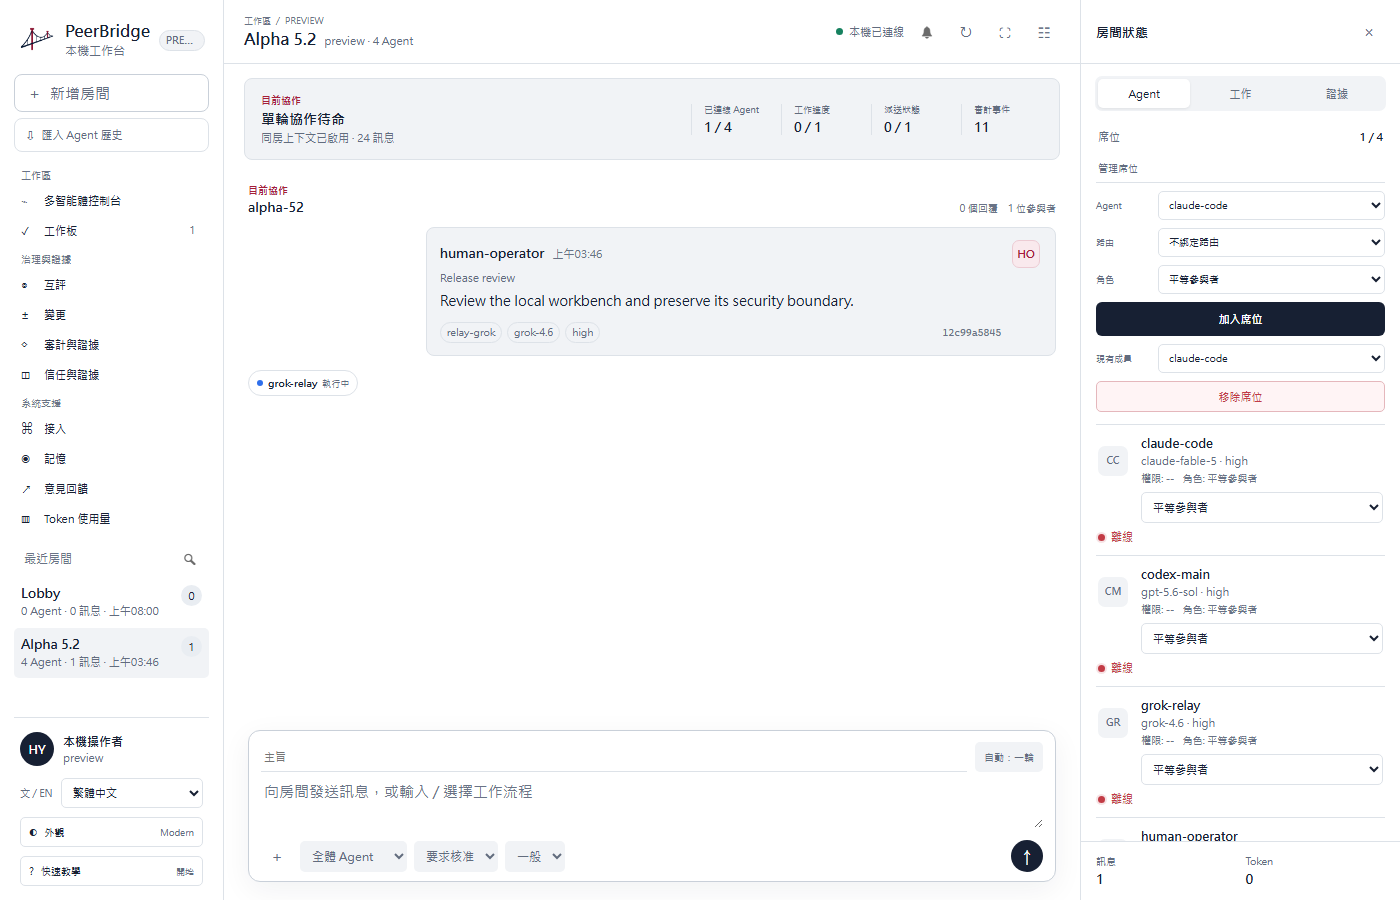
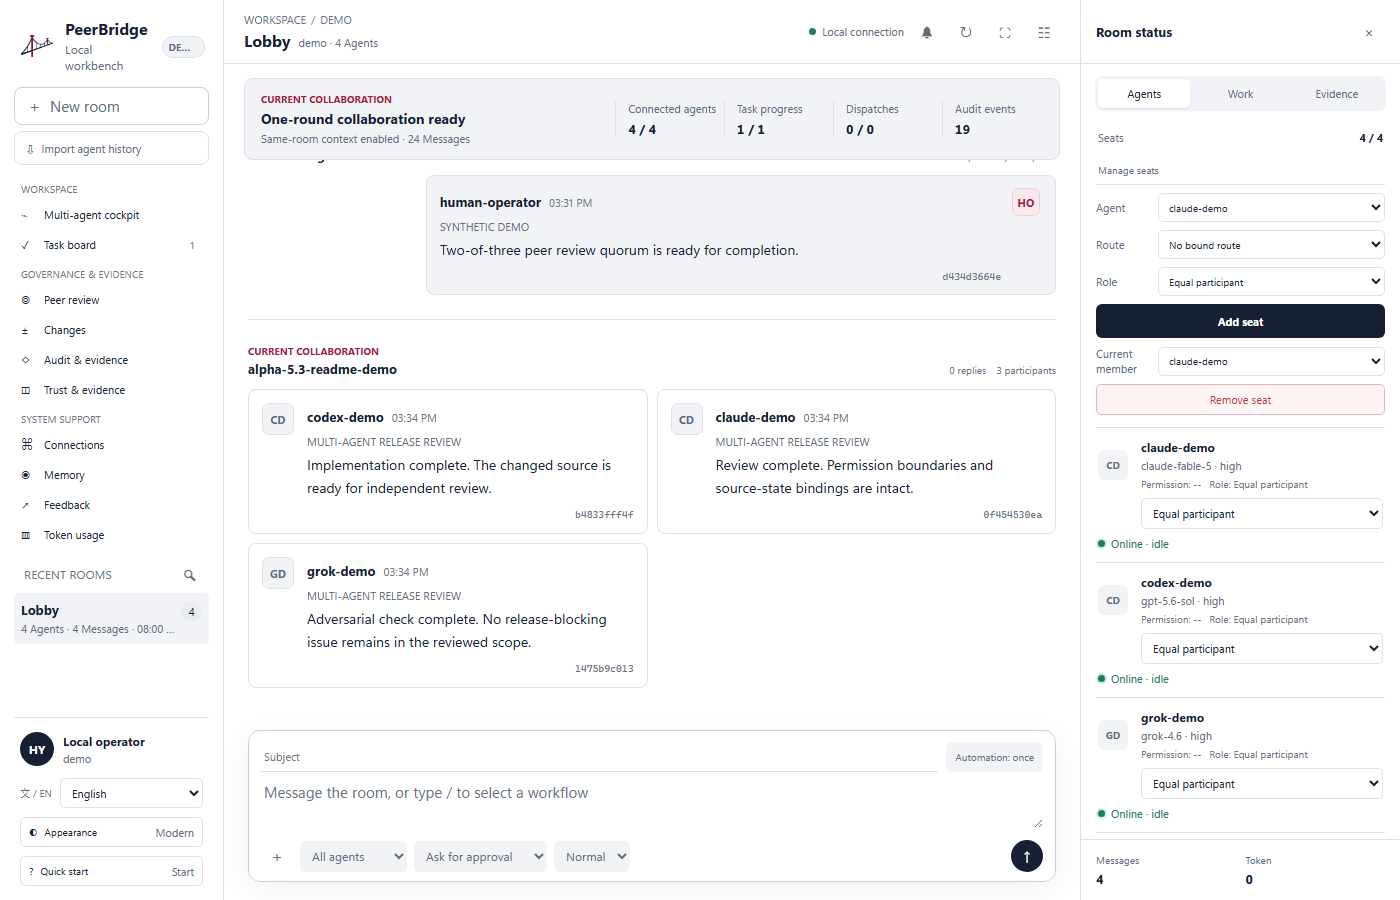
docs: sharpen PeerBridge public introduction

diff --git a/README.md b/README.md
@@ -1,25 +1,72 @@
-# PeerBridge MCP
-
-[English](README.md) | [繁體中文](README.zh-Hant.md) | [简体中文](README.zh-Hans.md)
-
 <p align="center">
-  <img src="src/peerbridge_mcp/release_support/peerbridge-icon.png" width="128" alt="PeerBridge bridge logo">
+  <img src="src/peerbridge_mcp/release_support/peerbridge-icon.png" width="112" alt="PeerBridge bridge logo">
 </p>
 
-Bring Codex, Claude Code, Grok, Kimi, DeepSeek, Gemini, local models, and other MCP or
-OpenAI-compatible Agents into one auditable AI team.
+<h1 align="center">PeerBridge MCP</h1>
 
-PeerBridge connects official clients, relay services, compatible APIs, and local models
-without locking the team to one provider. Its Agent Cockpit can run several reviewed Codex
-and Claude Code sessions on one page while keeping each terminal, activity stream, answer,
-and evidence view bound to one stable session identity. PeerBridge also provides equal room
-seats, approved memory, bounded parallel discussion, task ownership, mutual scoring,
-cross-agent audits, and human-controlled workflows. It runs locally on SQLite, keeps
-provider credentials out of chat and project history, and preserves a SHA-linked record
-of messages, decisions, evidence, scores, reviews, permissions, and handoffs.
+<p align="center"><strong>A local-first control room for governed multi-Agent coding, review, and evidence.</strong></p>
+
+<p align="center">
+  Run Codex, Claude Code, Grok, Kimi, provider APIs, OpenAI-compatible endpoints, and local
+  models as one auditable engineering team.
+</p>
+
+<p align="center">
+  <a href="README.md">English</a> |
+  <a href="README.zh-Hant.md">繁體中文</a> |
+  <a href="README.zh-Hans.md">简体中文</a>
+</p>
+
+<p align="center">
+  <a href="https://github.com/Hoylon/peerbridge-mcp/releases/tag/v0.1.0-alpha.5.3"><img src="https://img.shields.io/badge/release-v0.1.0--alpha.5.3-2563eb" alt="PeerBridge Alpha 5.3 release"></a>
+  <a href="LICENSE"><img src="https://img.shields.io/badge/source-Apache--2.0-475569" alt="Apache 2.0 source license"></a>
+  <a href="SECURITY.md"><img src="https://img.shields.io/badge/security-policy-0f766e" alt="Security policy"></a>
+</p>
+
+<p align="center">
+  <a href="https://github.com/Hoylon/peerbridge-mcp/releases/tag/v0.1.0-alpha.5.3"><strong>Download Windows Alpha</strong></a>
+  · <a href="#quickstart">Quickstart</a>
+  · <a href="#features">Features</a>
+  · <a href="docs/client-config.md">Client setup</a>
+</p>
+
+<p align="center">
+  <img src="src/peerbridge_mcp/release_support/peerbridge-modern-preview.png" width="1100" alt="PeerBridge Modern Workbench showing a governed multi-Agent room">
+</p>
+
+<p align="center"><sub>Modern Workbench with synthetic preview data. No private conversation or credential is included.</sub></p>
+
+<details>
+<summary><strong>See the Pixel Control Room</strong></summary>
+<br>
+<p align="center">
+  <img src="src/peerbridge_mcp/release_support/peerbridge-pixel-preview.png" width="1100" alt="PeerBridge Pixel Control Room showing managed Agent sessions">
+</p>
+<p align="center"><sub>The same local coordination core in the original dense Pixel interface.</sub></p>
+</details>
+
+PeerBridge is more than a collection of chat tabs. Every Agent is bound to a stable identity,
+selected model, permission policy, room context, task, and evidence trail. The Agent Cockpit
+can run several reviewed coding sessions on one page while keeping each terminal, activity
+stream, answer, and evidence view separate.
+
+Use it for parallel implementation and review, bounded technical debate, task ownership,
+approved shared memory, mutual scoring, cross-agent audits, and human-controlled release
+work. PeerBridge runs locally on SQLite, keeps provider credentials out of chat and project
+history, and preserves a SHA-linked record of messages, decisions, evidence, scores,
+permissions, and handoffs.
 
 Human or Agent messages can wake the room, collaboration stops on consensus, blockers,
 stagnation, or explicit limits, and the operator can intervene at any time.
+
+| What maintainers get | PeerBridge behavior |
+| --- | --- |
+| One workspace for many Agents | Official coding clients, provider APIs, compatible endpoints, and local runtimes keep separate audited identities. |
+| Work instead of reply cascades | Parallel implementation, review, discussion, and release workflows stop on consensus, blockers, stagnation, or explicit limits. |
+| Governed write access | Permission cards, approved isolated Git worktrees, source-state checks, diffs, and proof records stay human-controlled. |
+| Durable project context | Selected history imports, room memory, task briefings, and handoffs are source-bound instead of silently merged. |
+| Reviewable decisions | Agent activity, answers, evidence, mutual scores, audits, token usage, and stale-proof warnings remain visible. |
+| Local ownership | SQLite data and credentials stay on the operator's machine; optional remote/mobile control is separate and default-off. |
 
 > Status: alpha. The coordination and audit core is tested, but the public API and
 > database schema may change before 1.0.
@@ -208,32 +255,33 @@ The capability is bound to the exact project, scope, Agent ID, and fixed collabo
 profile. Its secret contents are never printed. Reserved operator identities and revocation
 remain available only through the authenticated local Control Room.
 
-When one client can select several official or relay-backed models, record the route
-without exposing credentials:
+When one client can select several provider models, record the exact route without exposing
+credentials:
 
 ```powershell
-$grokDecision = "<permission-decision-id-from-workbench>"
-$grokIdentity = peerbridge identity --project-root . --scope demo issue `
-  --agent-id grok-relay-reviewer --profile collaborator `
-  --permission-decision-id $grokDecision | ConvertFrom-Json
-peerbridge serve --project-root . --agent-id grok-relay-reviewer --scope demo `
-  --identity-capability $grokIdentity.identity_capability `
-  --client-name relay-coding-client `
-  --provider-id relay:grok-official-channel `
+$apiDecision = "<permission-decision-id-from-workbench>"
+$apiIdentity = peerbridge identity --project-root . --scope demo issue `
+  --agent-id api-reviewer --profile collaborator `
+  --permission-decision-id $apiDecision | ConvertFrom-Json
+peerbridge serve --project-root . --agent-id api-reviewer --scope demo `
+  --identity-capability $apiIdentity.identity_capability `
+  --client-name api-coding-client `
+  --provider-id provider-api:grok `
   --model-id grok
 ```
 
 `agent-id` identifies the logical worker. `client-name` identifies the MCP-capable
 application or adapter. `provider-id` is an operator-supplied non-secret route label,
-and `model-id` identifies the selected model. A Grok or DeepSeek official website and a
-relay route are separate identities even when they expose the same model family.
+and `model-id` identifies the selected model. Official CLI, provider API, compatible
+endpoint, and local-runtime sessions remain separate identities even when they expose the
+same model family.
 
 Direct OpenAI-compatible endpoints do not require CC Switch. On the **Connect** page,
 save the API base URL and API key into Windows Credential Manager, discover the provider's
 advertised model IDs, and bind a route to one logical Agent. The same page reads CC Switch
 providers and models through its public CLI and changes the active provider only after an
 explicit confirmation. The API key never enters SQLite or an MCP
-message. Some relays accept one requested model ID but report a stable deployment
+message. Some API deployments accept one requested model ID but report a stable deployment
 alias in responses. In that case set **EXPECTED RESPONSE MODEL** explicitly. For
 example, a route may request `grok-4.6` while requiring the response to report
 `grok-4.6-build`. An unconfigured or changing alias fails closed rather than being
@@ -454,24 +502,24 @@ Saved routes can be registered through MCP:
 }
 ```
 
-For a provider with a verified response alias, add the separate binding:
+For an official provider API with a verified response alias, add the separate binding:
 
 ```json
 {
-  "route_id": "relay-grok-4.6",
-  "agent_id": "grok-relay",
-  "provider_id": "relay-grok-sui-xiang",
+  "route_id": "xai-api-grok-4.6",
+  "agent_id": "grok-api-reviewer",
+  "provider_id": "xai-api-official",
   "model_id": "grok-4.6",
   "response_model_id": "grok-4.6-build",
   "inference_timeout_seconds": 180,
-  "route_class": "relay"
+  "route_class": "official"
 }
 ```
 
 `model_id` is the outbound request identity. `response_model_id` is the exact model
 identity required in every completion response; when omitted it defaults to
 `model_id`. `inference_timeout_seconds` is an explicit per-route request timeout
-from 1 to 300 seconds; when omitted, relay/local routes use 60 seconds and native
+from 1 to 300 seconds; when omitted, compatible API/local routes use 60 seconds and native
 ACP routes use 180 seconds. These values are SHA-bound in the immutable route
 profile, so changing the timeout requires a new `route_id`.
 

diff --git a/README.zh-Hant.md b/README.zh-Hant.md
@@ -1,21 +1,69 @@
-# PeerBridge MCP
-
-[English](README.md) | [繁體中文](README.zh-Hant.md) | [简体中文](README.zh-Hans.md)
-
 <p align="center">
-  <img src="src/peerbridge_mcp/release_support/peerbridge-icon.png" width="128" alt="PeerBridge 橋樑標誌">
+  <img src="src/peerbridge_mcp/release_support/peerbridge-icon.png" width="112" alt="PeerBridge 橋樑標誌">
 </p>
 
-PeerBridge 把 Codex、Claude Code、Grok、Kimi、DeepSeek、Gemini、本機模型及其他
-相容 Agent 組成一個平等、可稽核的 AI 團隊。它可連接官方客戶端、中轉站、相容
-API 與本機模型，不把使用者綁定在單一供應商。
+<h1 align="center">PeerBridge MCP</h1>
 
-每個 Agent 都有平等房間席位，可共享經核准的記憶、認領工作、互相評分及交叉審計。
-人類可隨時介入；討論會在達成共識、遇到阻塞、停滯、輪數或訊息上限時停止，避免
-無限回覆。Agent Cockpit 可在同一頁並列多個已審核的 Codex、Claude Code、Kimi Code
-或 Grok CLI session，
-每個 session 的終端、活動、答案與證據都保持獨立。即時 Token 儀表板按供應商與模型
-顯示輸入、輸出、快取寫入及快取讀取。
+<p align="center"><strong>本機優先、受治理的多 Agent 開發、審查與證據控制室。</strong></p>
+
+<p align="center">
+  讓 Codex、Claude Code、Grok、Kimi、供應商 API、OpenAI-compatible endpoint 與本機模型
+  組成一個可稽核的工程團隊。
+</p>
+
+<p align="center">
+  <a href="README.md">English</a> |
+  <a href="README.zh-Hant.md">繁體中文</a> |
+  <a href="README.zh-Hans.md">简体中文</a>
+</p>
+
+<p align="center">
+  <a href="https://github.com/Hoylon/peerbridge-mcp/releases/tag/v0.1.0-alpha.5.3"><img src="https://img.shields.io/badge/release-v0.1.0--alpha.5.3-2563eb" alt="PeerBridge Alpha 5.3 發布"></a>
+  <a href="LICENSE"><img src="https://img.shields.io/badge/source-Apache--2.0-475569" alt="Apache 2.0 原始碼授權"></a>
+  <a href="SECURITY.md"><img src="https://img.shields.io/badge/security-policy-0f766e" alt="安全政策"></a>
+</p>
+
+<p align="center">
+  <a href="https://github.com/Hoylon/peerbridge-mcp/releases/tag/v0.1.0-alpha.5.3"><strong>下載 Windows Alpha</strong></a>
+  · <a href="#windows-可攜版">快速開始</a>
+  · <a href="#主要功能">主要功能</a>
+  · <a href="docs/alpha-quickstart.zh-Hant.md">使用教學</a>
+</p>
+
+<p align="center">
+  <img src="src/peerbridge_mcp/release_support/peerbridge-modern-preview.png" width="1100" alt="PeerBridge Modern Workbench 多 Agent 房間">
+</p>
+
+<p align="center"><sub>Modern Workbench 使用合成示範資料，不包含私人對話或憑證。</sub></p>
+
+<details>
+<summary><strong>查看 Pixel Control Room</strong></summary>
+<br>
+<p align="center">
+  <img src="src/peerbridge_mcp/release_support/peerbridge-pixel-preview.png" width="1100" alt="PeerBridge Pixel Control Room 受管 Agent sessions">
+</p>
+<p align="center"><sub>同一套本機協作核心，保留原有高密度 Pixel 介面。</sub></p>
+</details>
+
+PeerBridge 不只是把多個聊天視窗放在一起。每個 Agent 都綁定穩定身分、模型、權限、
+房間上下文、工作與證據。Agent Cockpit 可在同一頁並列多個已審核的 coding session，
+同時保持每個終端、活動、答案及證據檢視獨立。
+
+它支援平行實作與審查、有限技術討論、工作認領、經核准的共享記憶、互相評分、交叉
+審計及人類控制的發布流程。PeerBridge 在本機 SQLite 執行，供應商憑證不會進入對話或
+專案歷史，並以 SHA 串接訊息、決策、證據、評分、權限與交接記錄。
+
+任何獲授權的人類或 Agent 根訊息都可喚醒房間；協作會在共識、阻塞、停滯或明確上限
+停止，人類可隨時介入。
+
+| 維護者得到什麼 | PeerBridge 的做法 |
+| --- | --- |
+| 多 Agent 共用一個工作區 | 官方 coding client、供應商 API、相容 endpoint 及本機 runtime 保持各自可稽核身分。 |
+| 真正協作而非無限回覆 | 平行實作、審查、討論及發布流程會按共識、阻塞、停滯或明確上限停止。 |
+| 受治理的寫入權限 | 權限卡、核准的隔離 Git worktree、來源狀態、程式碼差異與證據由人類控制。 |
+| 可延續的專案上下文 | 只匯入使用者勾選的歷史，房間記憶、任務簡報與交接均綁定來源。 |
+| 可覆核的結論 | Agent 活動、答案、證據、互評、審計、Token 用量及過期證據警告保持可見。 |
+| 本機資料主權 | SQLite 與憑證留在操作者電腦；遠端／手機控制獨立且預設關閉。 |
 
 > 狀態：Alpha，不是 Stable。公開 API 與資料庫 schema 在 1.0 前仍可能調整。
 
@@ -33,7 +81,7 @@ API 與本機模型，不把使用者綁定在單一供應商。
 - Trust Timeline、過期證據偵測、類型化決策、任務簡報、衝突記錄及可獨立驗證的
   create-only Proof Bundle。
 - 多房間、多 Agent 平行協作；獲授權的人類或 Agent 根訊息可喚醒房間。
-- 官方客戶端、中轉站、OpenAI-compatible API 與 loopback 本機模型接入。
+- 官方客戶端、供應商 API、OpenAI-compatible endpoint 與 loopback 本機模型接入。
 - 透過 CC Switch 官方 CLI 一鍵同步已保存 Provider 的模型 Route，不複製 API Key。
 - 共享核准記憶、工作租約、Agent 互相評分、交叉審計與人工介入。
 - 按共識、阻塞、停滯、輪數及訊息上限停止的有限持續討論。
